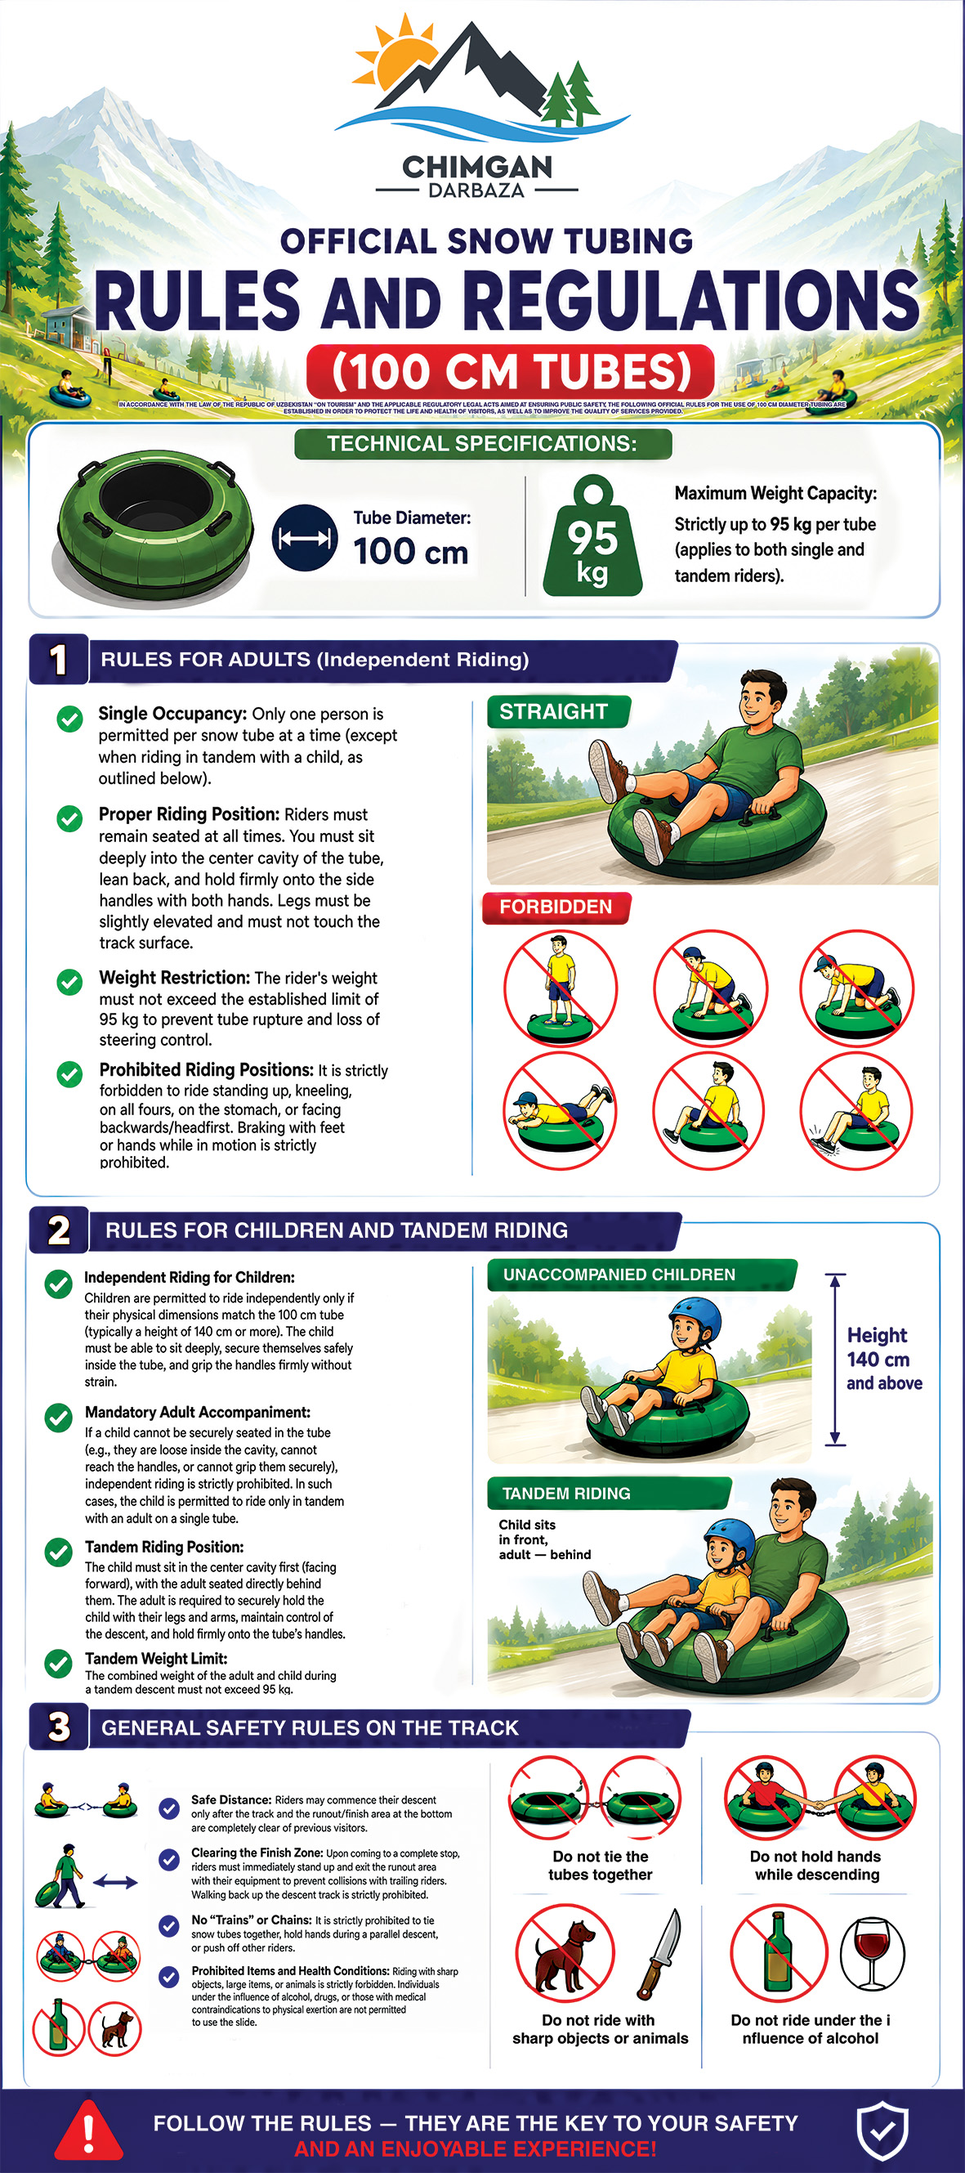
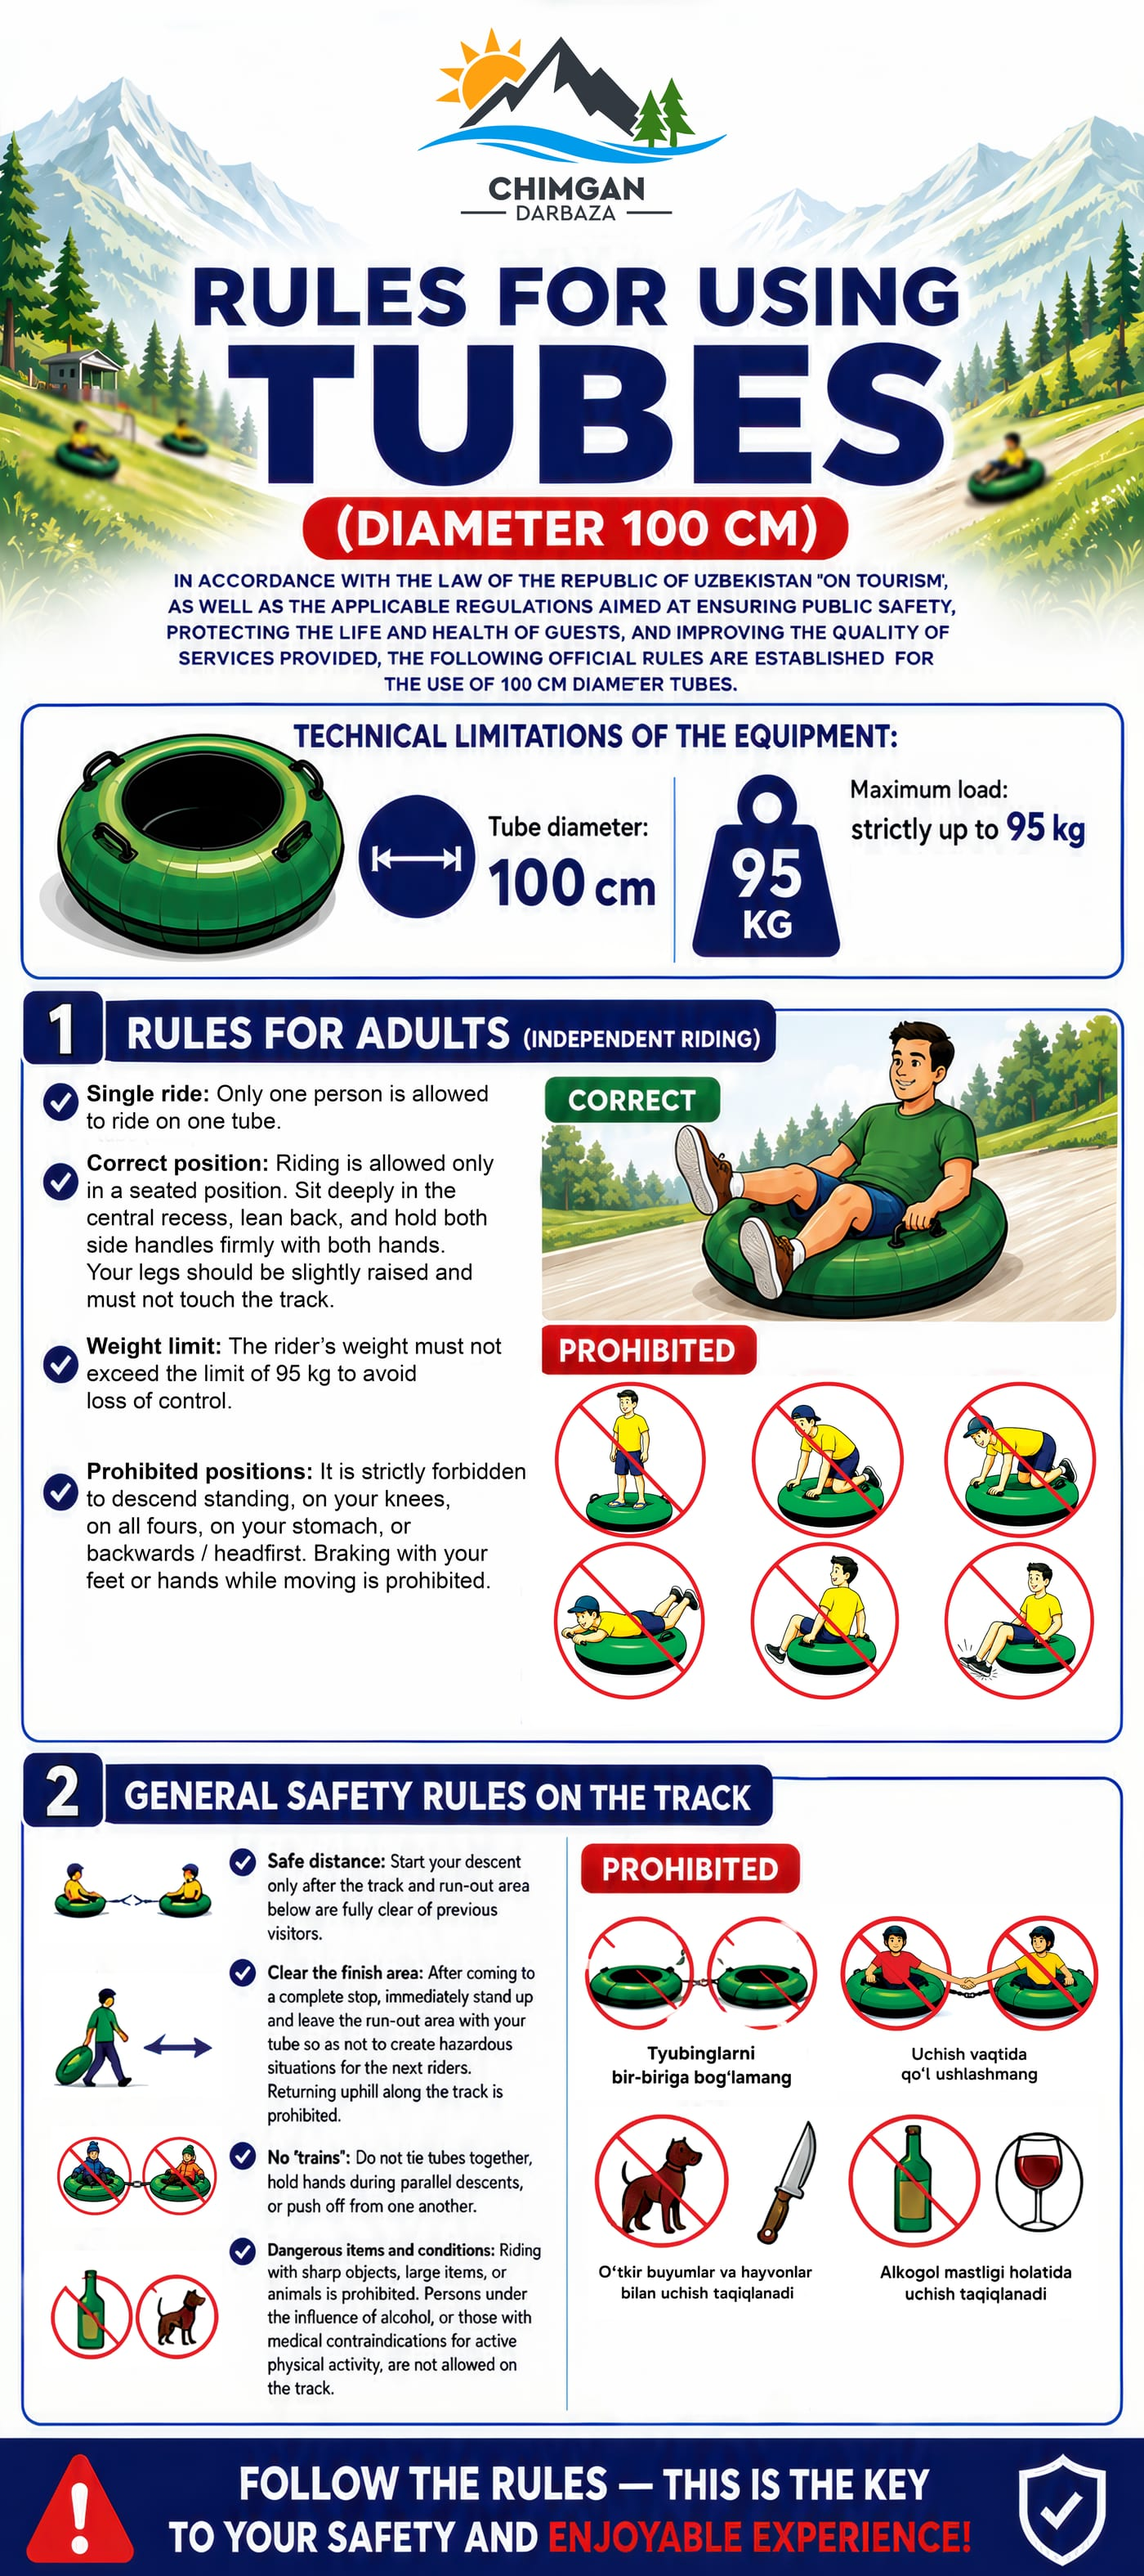
content: новый плакат правил тюбинга, компактной карточкой
Плакат от оператора — редакция без совместного спуска: раздела про катание
ребёнка со взрослым на нём больше нет вовсе, только «на одном тюбинге
разрешается кататься только одному человеку». Совпадает с правилом, которое
вчера легло в оферту и в правила горки.

Оригиналы 6299×14173 и по 9–10 МБ — на телефоне это полминуты ожидания ради
картинки, которая всё равно показывается меньше. Сжаты до 1400 px по ширине,
0,6 МБ: пятнадцатикратная разница при том же читаемом полном размере.

Показывался плакат во всю ширину карточки. При пропорции 1:2.25 это полтора
экрана прокрутки, на которых мелкий текст всё равно не разобрать — гость и
листает долго, и ничего не читает. Теперь окно 300 px с верхом плаката, по
которому видно, что это за документ, и заметная кнопка «открыть целиком»:
читать всё равно нужно в полном размере, а не в ленте.

Возрастной порог на плакате не напечатан — он остаётся в правилах горки:
младше 4 лет не допускают, старше едут только сами.

diff --git a/src/components/sections/TubingSafetyPoster.tsx b/src/components/sections/TubingSafetyPoster.tsx
@@ -7,30 +7,45 @@ const POSTER_PATHS: Record<Locale, string> = {
   en: "/images/resort/tubing-rules-100cm-en.jpg",
 };
 
+/**
+ * Плакат от 19.08.2026 — редакция без совместного спуска: раздела про детей и
+ * катание с родителем на нём больше нет вовсе, только «на одном тюбинге
+ * разрешается кататься только одному человеку». Возрастной порог (от 4 лет,
+ * самостоятельная посадка) на плакате не напечатан и живёт в правилах горки.
+ *
+ * Оригинал 6299×14173 и 9 МБ; здесь 1400 px по ширине — на экране плакат всё
+ * равно открывается меньше, а девять мегабайт на телефоне это половина минуты
+ * ожидания.
+ */
+const POSTER = { width: 1400, height: 3150 };
+
 const COPY: Record<
   Locale,
-  { eyebrow: string; title: string; body: string; alt: string; open: string }
+  { eyebrow: string; title: string; body: string; alt: string; open: string; caption: string }
 > = {
   ru: {
     eyebrow: "Безопасность",
     title: "Правила пользования тюбингами",
-    body: "Перед отправкой заявки внимательно ознакомьтесь с правилами для тюбингов диаметром 100 см.",
+    body: "Перед отправкой заявки ознакомьтесь с правилами для тюбингов диаметром 100 см: катается один человек, вес до 95 кг.",
     alt: "Плакат с правилами пользования тюбингами диаметром 100 см",
-    open: "Нажмите на плакат, чтобы открыть его в полном размере",
+    open: "Открыть плакат целиком",
+    caption: "Плакат откроется в полном размере в новой вкладке — там он читается целиком.",
   },
   uz: {
     eyebrow: "Xavfsizlik",
     title: "Tyubingdan foydalanish qoidalari",
-    body: "Ariza yuborishdan oldin diametri 100 sm bo‘lgan tyubinglar qoidalarini diqqat bilan o‘qing.",
+    body: "Ariza yuborishdan oldin diametri 100 sm bo‘lgan tyubinglar qoidalari bilan tanishing: bir kishi uchadi, vazn 95 kg gacha.",
     alt: "Diametri 100 sm bo‘lgan tyubinglardan foydalanish qoidalari yozilgan plakat",
-    open: "Plakatni to‘liq hajmda ochish uchun uning ustiga bosing",
+    open: "Plakatni to‘liq ochish",
+    caption: "Plakat yangi oynada to‘liq hajmda ochiladi — u yerda hammasi o‘qiladi.",
   },
   en: {
     eyebrow: "Safety",
     title: "Tubing rules",
-    body: "Please read the rules for 100 cm tubing equipment carefully before sending your request.",
+    body: "Before sending your request, read the rules for 100 cm tubes: one rider per tube, up to 95 kg.",
     alt: "Poster with rules for using 100 cm tubing equipment",
-    open: "Select the poster to open it at full size",
+    open: "Open the full poster",
+    caption: "The poster opens at full size in a new tab, where every line is readable.",
   },
 };
 
@@ -44,8 +59,8 @@ export function TubingSafetyPoster({ locale }: { locale: Locale }) {
       aria-labelledby={headingId}
       className="border-b border-[var(--line)] bg-[var(--paper)] px-4 py-12 sm:px-6 sm:py-16 lg:px-8"
     >
-      <div className="mx-auto max-w-6xl">
-        <div className="mb-6 max-w-3xl">
+      <div className="mx-auto flex max-w-6xl flex-col gap-8 sm:flex-row sm:items-start sm:gap-10">
+        <div className="max-w-2xl sm:flex-1">
           <p className="text-[10px] font-bold uppercase tracking-[0.22em] text-[var(--accent-strong)]">
             {copy.eyebrow}
           </p>
@@ -55,24 +70,50 @@ export function TubingSafetyPoster({ locale }: { locale: Locale }) {
           <p className="mt-3 text-sm leading-6 text-[var(--muted)] sm:text-base">{copy.body}</p>
         </div>
 
-        <figure className="mx-auto max-w-xl">
+        {/*
+          Раньше плакат печатался во всю ширину карточки. При пропорции 1:2.25
+          это полтора экрана прокрутки, на которых мелкий текст всё равно не
+          читается: гость и листает долго, и ничего не разбирает.
+
+          Теперь окно фиксированной высоты с верхом плаката — по нему видно, что
+          это за документ, — и заметная кнопка «открыть целиком»: читать всё
+          равно нужно в полном размере.
+        */}
+        <figure className="w-full max-w-[300px] shrink-0 sm:max-w-[280px]">
           <a
             href={posterPath}
             target="_blank"
             rel="noopener noreferrer"
             aria-label={`${copy.open}. ${copy.alt}`}
-            className="group block overflow-hidden border border-[var(--line-strong)] bg-white shadow-[var(--shadow-card)] outline-none transition-all duration-200 hover:shadow-[var(--shadow-card-hover)] focus-visible:ring-2 focus-visible:ring-[var(--sun)] focus-visible:ring-offset-4"
+            className="group relative block aspect-[3/4] overflow-hidden rounded-2xl border border-[color:var(--line-strong)] bg-white shadow-[var(--shadow-card)] outline-none transition-shadow duration-200 hover:shadow-[var(--shadow-card-hover)] focus-visible:ring-2 focus-visible:ring-[var(--sun)] focus-visible:ring-offset-4"
           >
             <Image
               src={posterPath}
-              width={1492}
-              height={1054}
-              sizes="(min-width: 1280px) 560px, (min-width: 640px) 56vw, 90vw"
+              width={POSTER.width}
+              height={POSTER.height}
+              sizes="300px"
               alt={copy.alt}
-              className="h-auto w-full object-contain transition-transform duration-200 group-hover:scale-[1.01]"
+              className="absolute inset-0 h-full w-full object-cover object-top transition-transform duration-200 group-hover:scale-[1.02]"
             />
+            {/* Подложка под подписью: без неё белая кнопка теряется на светлом
+                верхе плаката — он начинается с неба и снежных вершин. */}
+            <span className="absolute inset-x-0 bottom-0 flex items-center justify-center gap-2 bg-gradient-to-t from-[rgba(21,29,24,0.88)] via-[rgba(21,29,24,0.72)] to-transparent px-3 pb-3 pt-8 text-xs font-bold text-white">
+              {/* Стрелки в углы — «развернуть». В наборе иконок такого знака
+                  нет, а заводить его ради одного места незачем. */}
+              <svg width="14" height="14" viewBox="0 0 14 14" aria-hidden="true" className="shrink-0">
+                <path
+                  d="M5.5 1.5H1.5V5.5M8.5 1.5H12.5V5.5M5.5 12.5H1.5V8.5M8.5 12.5H12.5V8.5"
+                  stroke="currentColor"
+                  strokeWidth="1.8"
+                  strokeLinecap="round"
+                  strokeLinejoin="round"
+                  fill="none"
+                />
+              </svg>
+              {copy.open}
+            </span>
           </a>
-          <figcaption className="mt-3 text-xs leading-5 text-[var(--muted)]">{copy.open}</figcaption>
+          <figcaption className="mt-3 text-xs leading-5 text-[var(--muted)]">{copy.caption}</figcaption>
         </figure>
       </div>
     </section>
